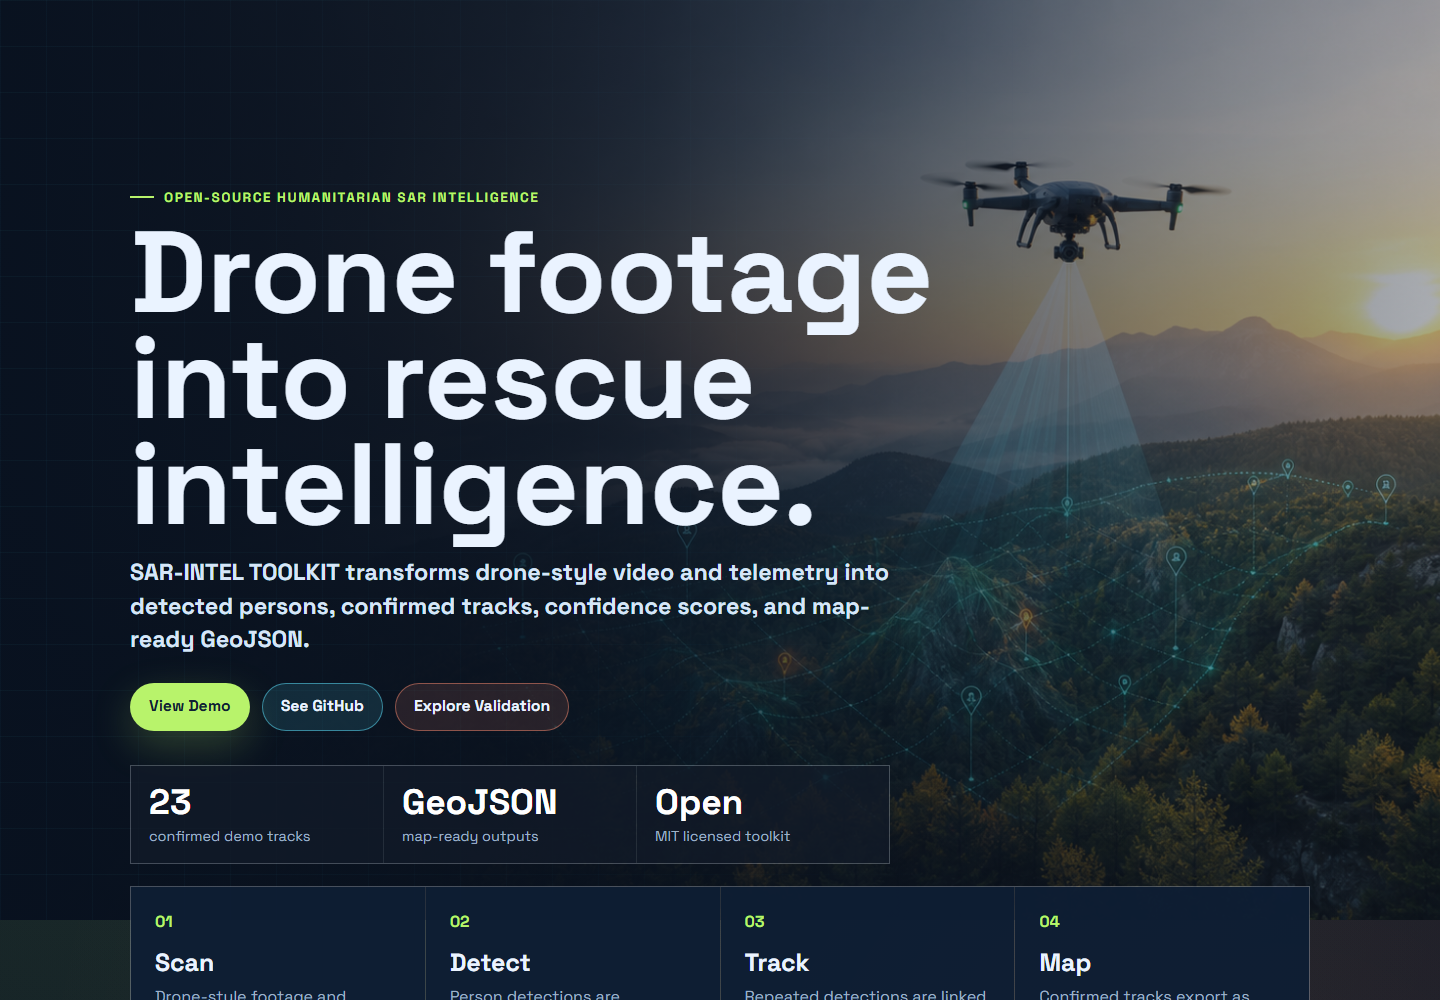
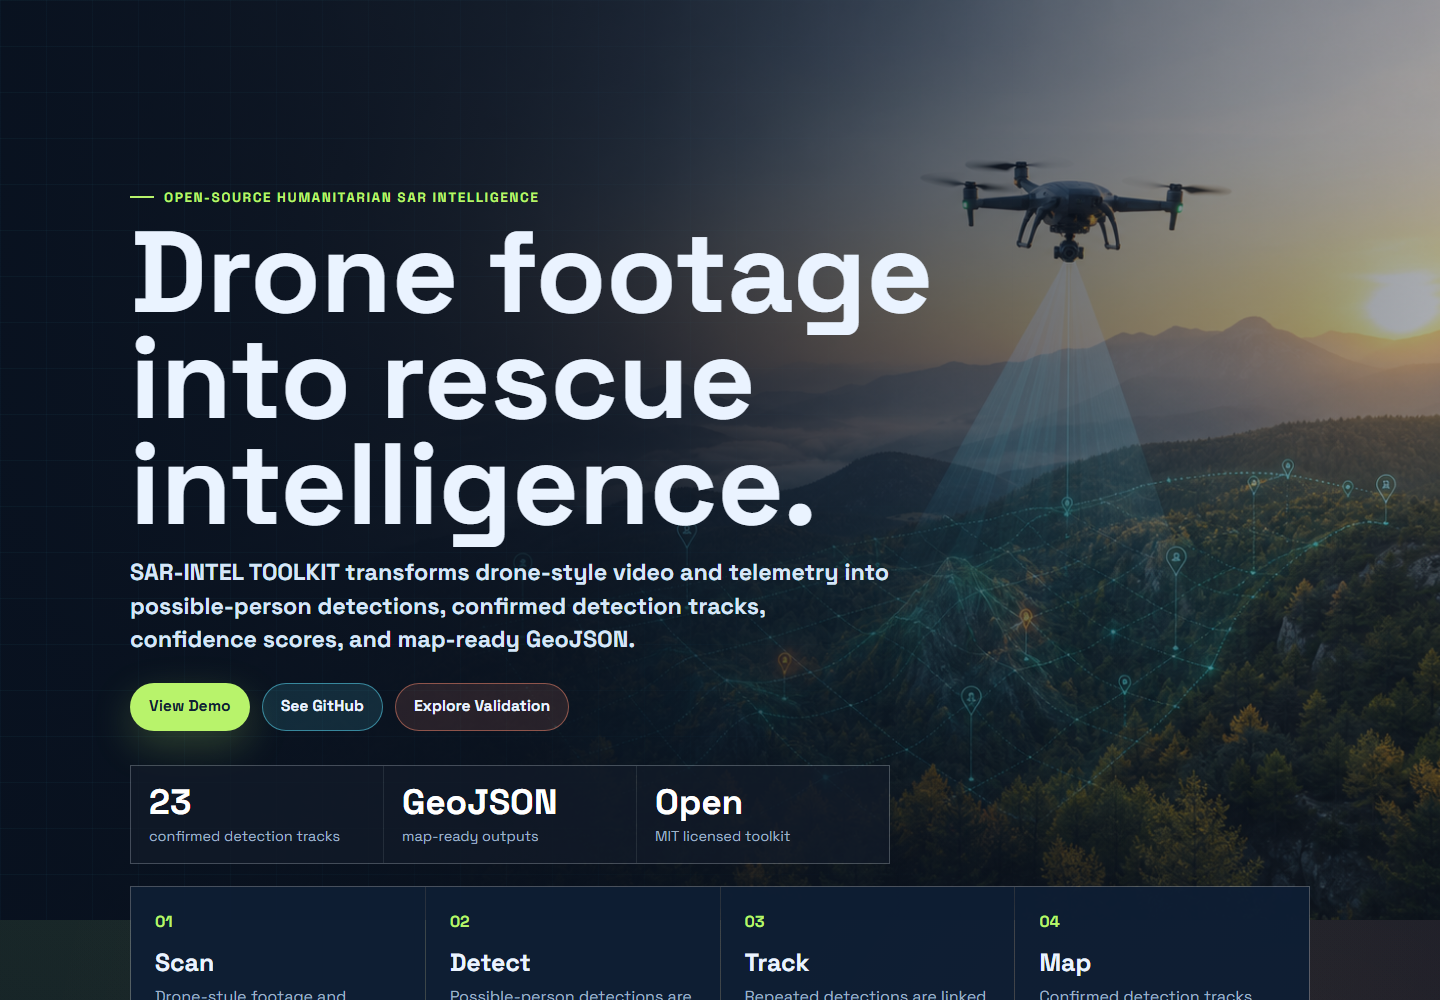
Harden public demo rendering copy

diff --git a/site/app.js b/site/app.js
@@ -5,9 +5,9 @@ const baseMetrics = [
     detail: "Possible-person alerts from the representative static demo run.",
   },
   {
-    label: "Confirmed tracks",
+    label: "Detection tracks",
     value: "23",
-    detail: "Repeated detections grouped into reviewable track objects.",
+    detail: "Repeated detections grouped into reviewable detection-track objects.",
   },
   {
     label: "Map features",
@@ -53,6 +53,32 @@ function formatCoordinate(value) {
   }
 
   return value.toFixed(6);
+}
+
+function displayValue(value, fallback = "n/a") {
+  return value ?? fallback;
+}
+
+function appendTextElement(parent, tagName, text, className) {
+  const element = document.createElement(tagName);
+  if (className) {
+    element.className = className;
+  }
+  element.textContent = String(text);
+  parent.appendChild(element);
+  return element;
+}
+
+function appendDefinition(parent, term, value) {
+  const row = document.createElement("div");
+  appendTextElement(row, "dt", term);
+  appendTextElement(row, "dd", displayValue(value));
+  parent.appendChild(row);
+}
+
+function appendPopupLine(parent, label, value) {
+  parent.appendChild(document.createElement("br"));
+  parent.appendChild(document.createTextNode(`${label}: ${displayValue(value)}`));
 }
 
 function setMapMessage(message, hideMap = true) {
@@ -198,19 +224,21 @@ function renderTrackCards(features, options = {}) {
     const coordinates = feature.geometry?.coordinates || [null, null];
     const card = document.createElement("article");
     card.className = "track-card";
-    card.innerHTML = `
-      <div class="track-card-head">
-        <h3>Track ${properties.track_id ?? "?"}</h3>
-        <span class="track-pill">${properties.track_class ?? "unknown"}</span>
-      </div>
-      <dl>
-        <div><dt>Score</dt><dd>${properties.track_score ?? "n/a"}</dd></div>
-        <div><dt>Hits</dt><dd>${properties.hits ?? "n/a"}</dd></div>
-        <div><dt>Mean confidence</dt><dd>${properties.mean_confidence ?? "n/a"}</dd></div>
-        <div><dt>Duration (s)</dt><dd>${properties.duration_seconds ?? "n/a"}</dd></div>
-        <div><dt>Coordinates</dt><dd>[${formatCoordinate(coordinates[0])}, ${formatCoordinate(coordinates[1])}]</dd></div>
-      </dl>
-    `;
+
+    const head = document.createElement("div");
+    head.className = "track-card-head";
+    appendTextElement(head, "h3", `Track ${displayValue(properties.track_id, "?")}`);
+    appendTextElement(head, "span", displayValue(properties.track_class, "unknown"), "track-pill");
+    card.appendChild(head);
+
+    const details = document.createElement("dl");
+    appendDefinition(details, "Score", properties.track_score);
+    appendDefinition(details, "Hits", properties.hits);
+    appendDefinition(details, "Mean confidence", properties.mean_confidence);
+    appendDefinition(details, "Duration (s)", properties.duration_seconds);
+    appendDefinition(details, "Coordinates", `[${formatCoordinate(coordinates[0])}, ${formatCoordinate(coordinates[1])}]`);
+    card.appendChild(details);
+
     container.appendChild(card);
   }
 }
@@ -335,12 +363,12 @@ function renderMapIfAvailable(features, geojson) {
     },
     onEachFeature(feature, marker) {
       const properties = feature.properties || {};
-      marker.bindPopup(
-        `<strong>Track ${properties.track_id}</strong><br>` +
-        `Review class: ${properties.track_class}<br>` +
-        `Confidence score: ${properties.track_score}<br>` +
-        `Frame hits: ${properties.hits}`
-      );
+      const popup = document.createElement("div");
+      appendTextElement(popup, "strong", `Track ${displayValue(properties.track_id, "?")}`);
+      appendPopupLine(popup, "Review class", properties.track_class);
+      appendPopupLine(popup, "Confidence score", properties.track_score);
+      appendPopupLine(popup, "Frame hits", properties.hits);
+      marker.bindPopup(popup);
     },
   }).addTo(mapInstance);
 

diff --git a/site/index.html b/site/index.html
@@ -25,7 +25,7 @@
       <p class="eyebrow">Open-source humanitarian SAR intelligence</p>
       <h1>Drone footage into rescue intelligence.</h1>
       <p class="subtitle">
-        SAR-INTEL TOOLKIT transforms drone-style video and telemetry into detected persons, confirmed tracks, confidence scores, and map-ready GeoJSON.
+        SAR-INTEL TOOLKIT transforms drone-style video and telemetry into possible-person detections, confirmed detection tracks, confidence scores, and map-ready GeoJSON.
       </p>
       <div class="hero-actions">
         <a class="button button-primary" href="#demo">View Demo</a>
@@ -33,7 +33,7 @@
         <a class="button button-tertiary" href="#validation">Explore Validation</a>
       </div>
       <div class="hero-proof" aria-label="Project proof points">
-        <article><strong>23</strong><span>confirmed demo tracks</span></article>
+        <article><strong>23</strong><span>confirmed detection tracks</span></article>
         <article><strong>GeoJSON</strong><span>map-ready outputs</span></article>
         <article><strong>Open</strong><span>MIT licensed toolkit</span></article>
       </div>
@@ -50,7 +50,7 @@
       <article>
         <span>02</span>
         <h2>Detect</h2>
-        <p>Person detections are converted into geotagged possible-person alerts.</p>
+        <p>Possible-person detections are converted into geotagged review alerts.</p>
       </article>
       <article>
         <span>03</span>
@@ -60,7 +60,7 @@
       <article>
         <span>04</span>
         <h2>Map</h2>
-        <p>Confirmed tracks export as GeoJSON for maps, dashboards, and review.</p>
+        <p>Confirmed detection tracks export as GeoJSON for maps, dashboards, and review.</p>
       </article>
     </section>
 
@@ -166,7 +166,7 @@
         <p class="section-tag">Visual proof</p>
         <h2>From noisy footage to reviewable rescue signals.</h2>
         <p>
-          The public demo presents the toolkit as a rescue-intelligence layer: detections become scored tracks, tracks become map features, and every output stays available for human review.
+          The public demo presents the toolkit as a rescue-intelligence layer: possible-person detections become scored detection tracks, tracks become map features, and every output stays available for human review.
         </p>
       </div>
       <div class="proof-stage" aria-label="Detection and map preview">
@@ -177,7 +177,7 @@
         </div>
         <div class="mission-card">
           <span>Mission intelligence preview</span>
-          <strong>23 confirmed tracks</strong>
+          <strong>23 confirmed detection tracks</strong>
           <p>Confidence-scored outputs ready for map review and downstream tools.</p>
         </div>
       </div>
@@ -186,7 +186,7 @@
     <section class="panel map-panel" id="demo">
       <div class="map-copy">
         <p class="section-tag">Map-ready GeoJSON</p>
-        <h2>Confirmed tracks can be visualized in standard web maps and GIS tools.</h2>
+        <h2>Confirmed detection tracks can be visualized in standard web maps and GIS tools.</h2>
         <div class="map-disclaimer">
           <p><strong>Demo Disclaimer:</strong></p>
           <ul>
@@ -276,7 +276,7 @@
         </article>
         <article>
           <h3>tracks.geojson</h3>
-          <p>map-ready confirmed track features</p>
+          <p>map-ready confirmed detection-track features</p>
         </article>
         <article>
           <h3>run_manifest.json</h3>

diff --git a/tests/test_public_site_hardening.py b/tests/test_public_site_hardening.py
@@ -1,0 +1,20 @@
+from pathlib import Path
+
+
+ROOT = Path(__file__).resolve().parents[1]
+
+
+def test_demo_geojson_properties_are_not_rendered_with_html_templates() -> None:
+    app_js = (ROOT / "site" / "app.js").read_text(encoding="utf-8")
+
+    assert "<h3>Track ${properties.track_id" not in app_js
+    assert "marker.bindPopup(\n        `" not in app_js
+
+
+def test_public_site_uses_possible_person_and_detection_track_language() -> None:
+    index_html = (ROOT / "site" / "index.html").read_text(encoding="utf-8")
+
+    assert "detected persons" not in index_html
+    assert "23 confirmed tracks" not in index_html
+    assert "possible-person detections" in index_html
+    assert "23 confirmed detection tracks" in index_html

diff --git a/README.md b/README.md
@@ -4,7 +4,7 @@
 
 **Drone footage into rescue intelligence.**
 
-SAR-INTEL TOOLKIT is an open-source humanitarian search-and-rescue intelligence pipeline. It turns drone-style video and telemetry into possible-person detections, confirmed tracks, confidence scores, run provenance, and map-ready GeoJSON.
+SAR-INTEL TOOLKIT is an open-source humanitarian search-and-rescue intelligence pipeline. It turns drone-style video and telemetry into possible-person detections, confirmed detection tracks, confidence scores, run provenance, and map-ready GeoJSON.
 
 ![SAR-INTEL TOOLKIT public demo](docs/assets/public-demo-preview.png)
 
